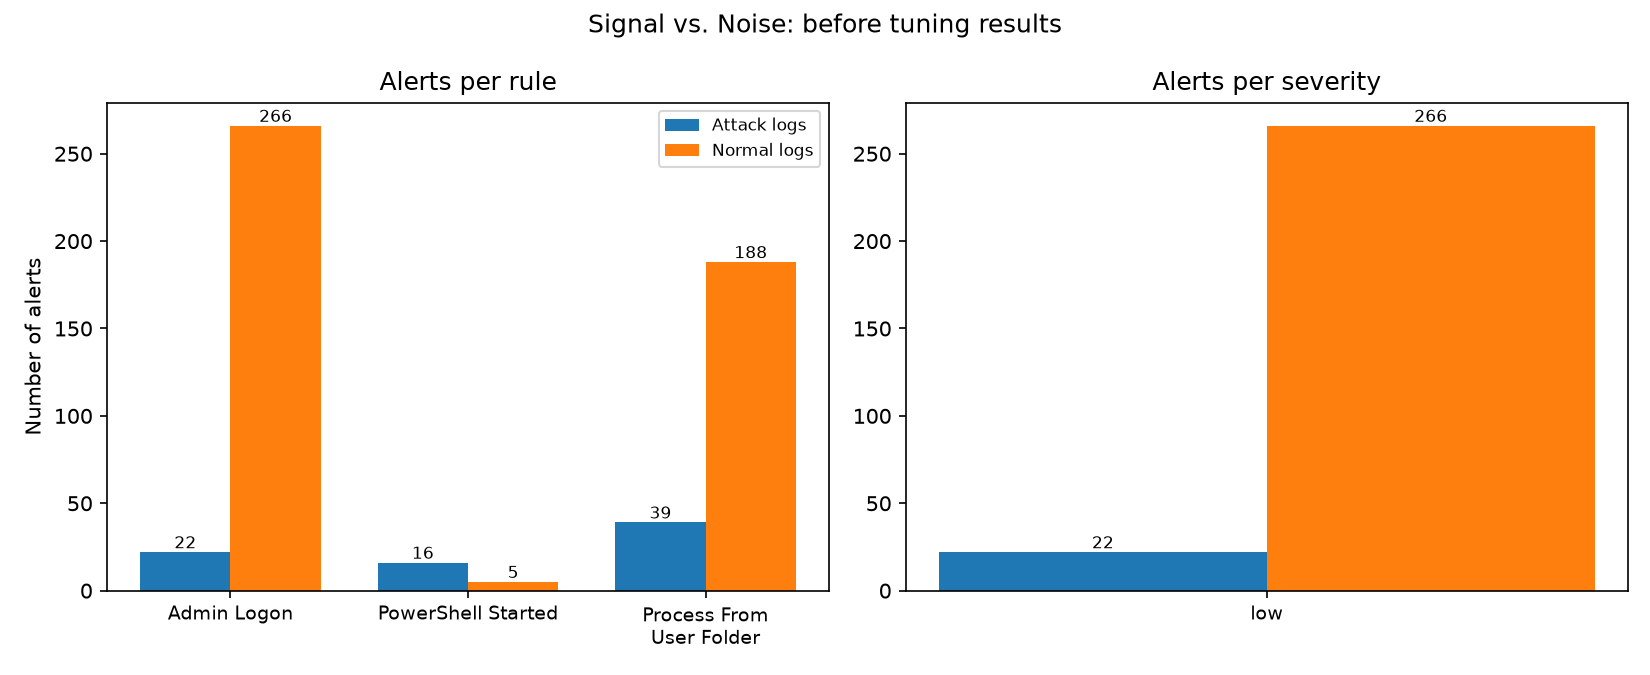
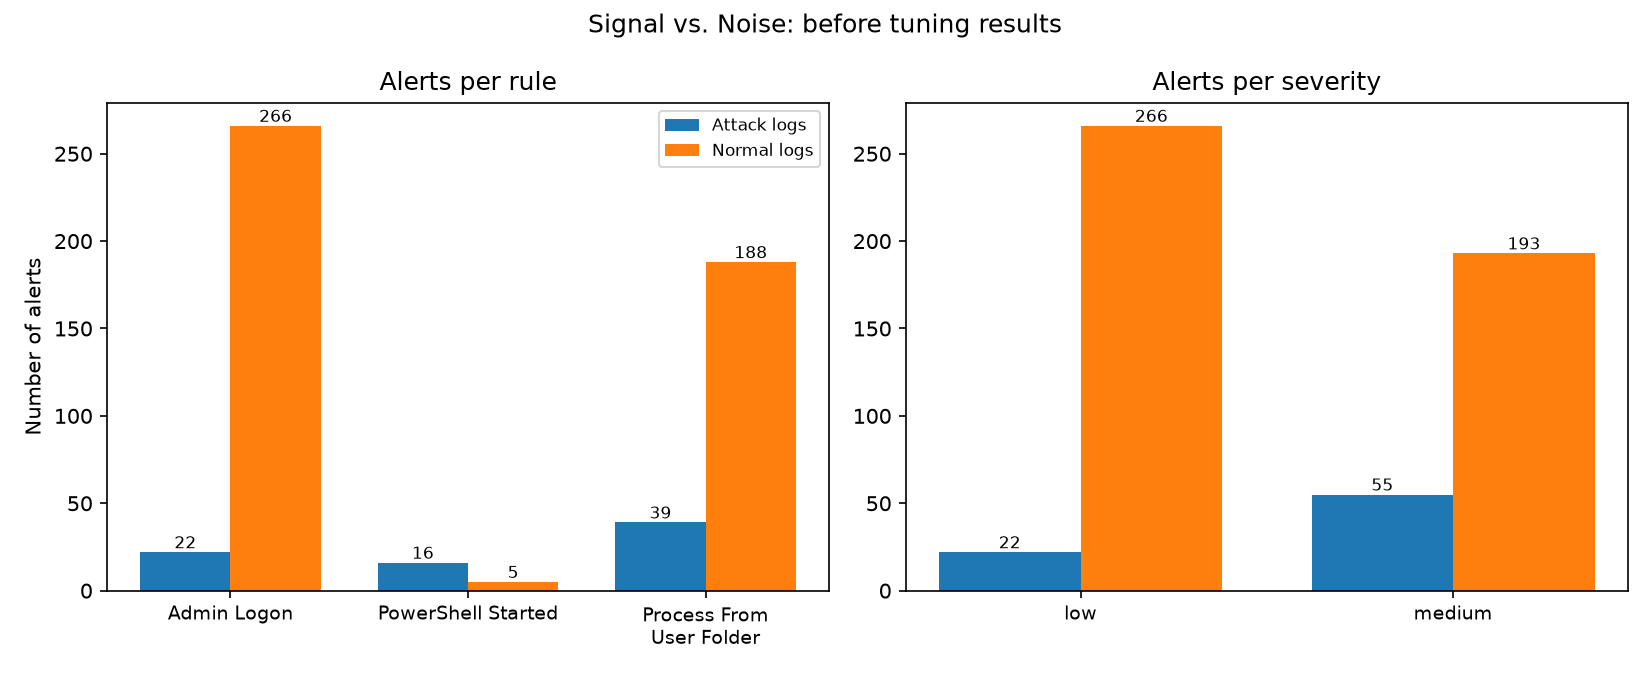
Fix severity names in summary script and chart

Changed region(s): [[0.6491, 0.1556, 0.9891, 0.9333], [0.8655, 0.9022, 0.8964, 0.9333]]

diff --git a/scripts/summarize_results.py b/scripts/summarize_results.py
@@ -27,6 +27,14 @@ RULE_NAMES = {
     "user-folder-exec.yml": "Process From\nUser Folder",
 }
 LEVEL_ORDER = ["informational", "low", "medium", "high", "critical", "emergency"]
+# Hayabusa saves short level names in the CSV (like "med"), so turn them into full names
+LEVEL_FULL = {"info": "informational", "low": "low", "med": "medium",
+              "high": "high", "crit": "critical", "emer": "emergency"}
+
+
+def full_level(row):
+    lvl = row["Level"].strip().lower()
+    return LEVEL_FULL.get(lvl, lvl)
 
 
 def read_rows(path):
@@ -72,9 +80,10 @@ def main():
         w.writerow(["TOTAL", len(attack), len(normal)])
 
     # 2) Alerts per severity
-    a_lvl = Counter(r["Level"] for r in attack)
-    n_lvl = Counter(r["Level"] for r in normal)
+    a_lvl = Counter(full_level(r) for r in attack)
+    n_lvl = Counter(full_level(r) for r in normal)
     levels = [l for l in LEVEL_ORDER if a_lvl[l] or n_lvl[l]]
+    levels += sorted((set(a_lvl) | set(n_lvl)) - set(LEVEL_ORDER))  # keep any unexpected level too
     print(f"\n=== {stage}: alerts per severity ===")
     for l in levels:
         print(f"{l:<14}{a_lvl[l]:>8}{n_lvl[l]:>8}")
